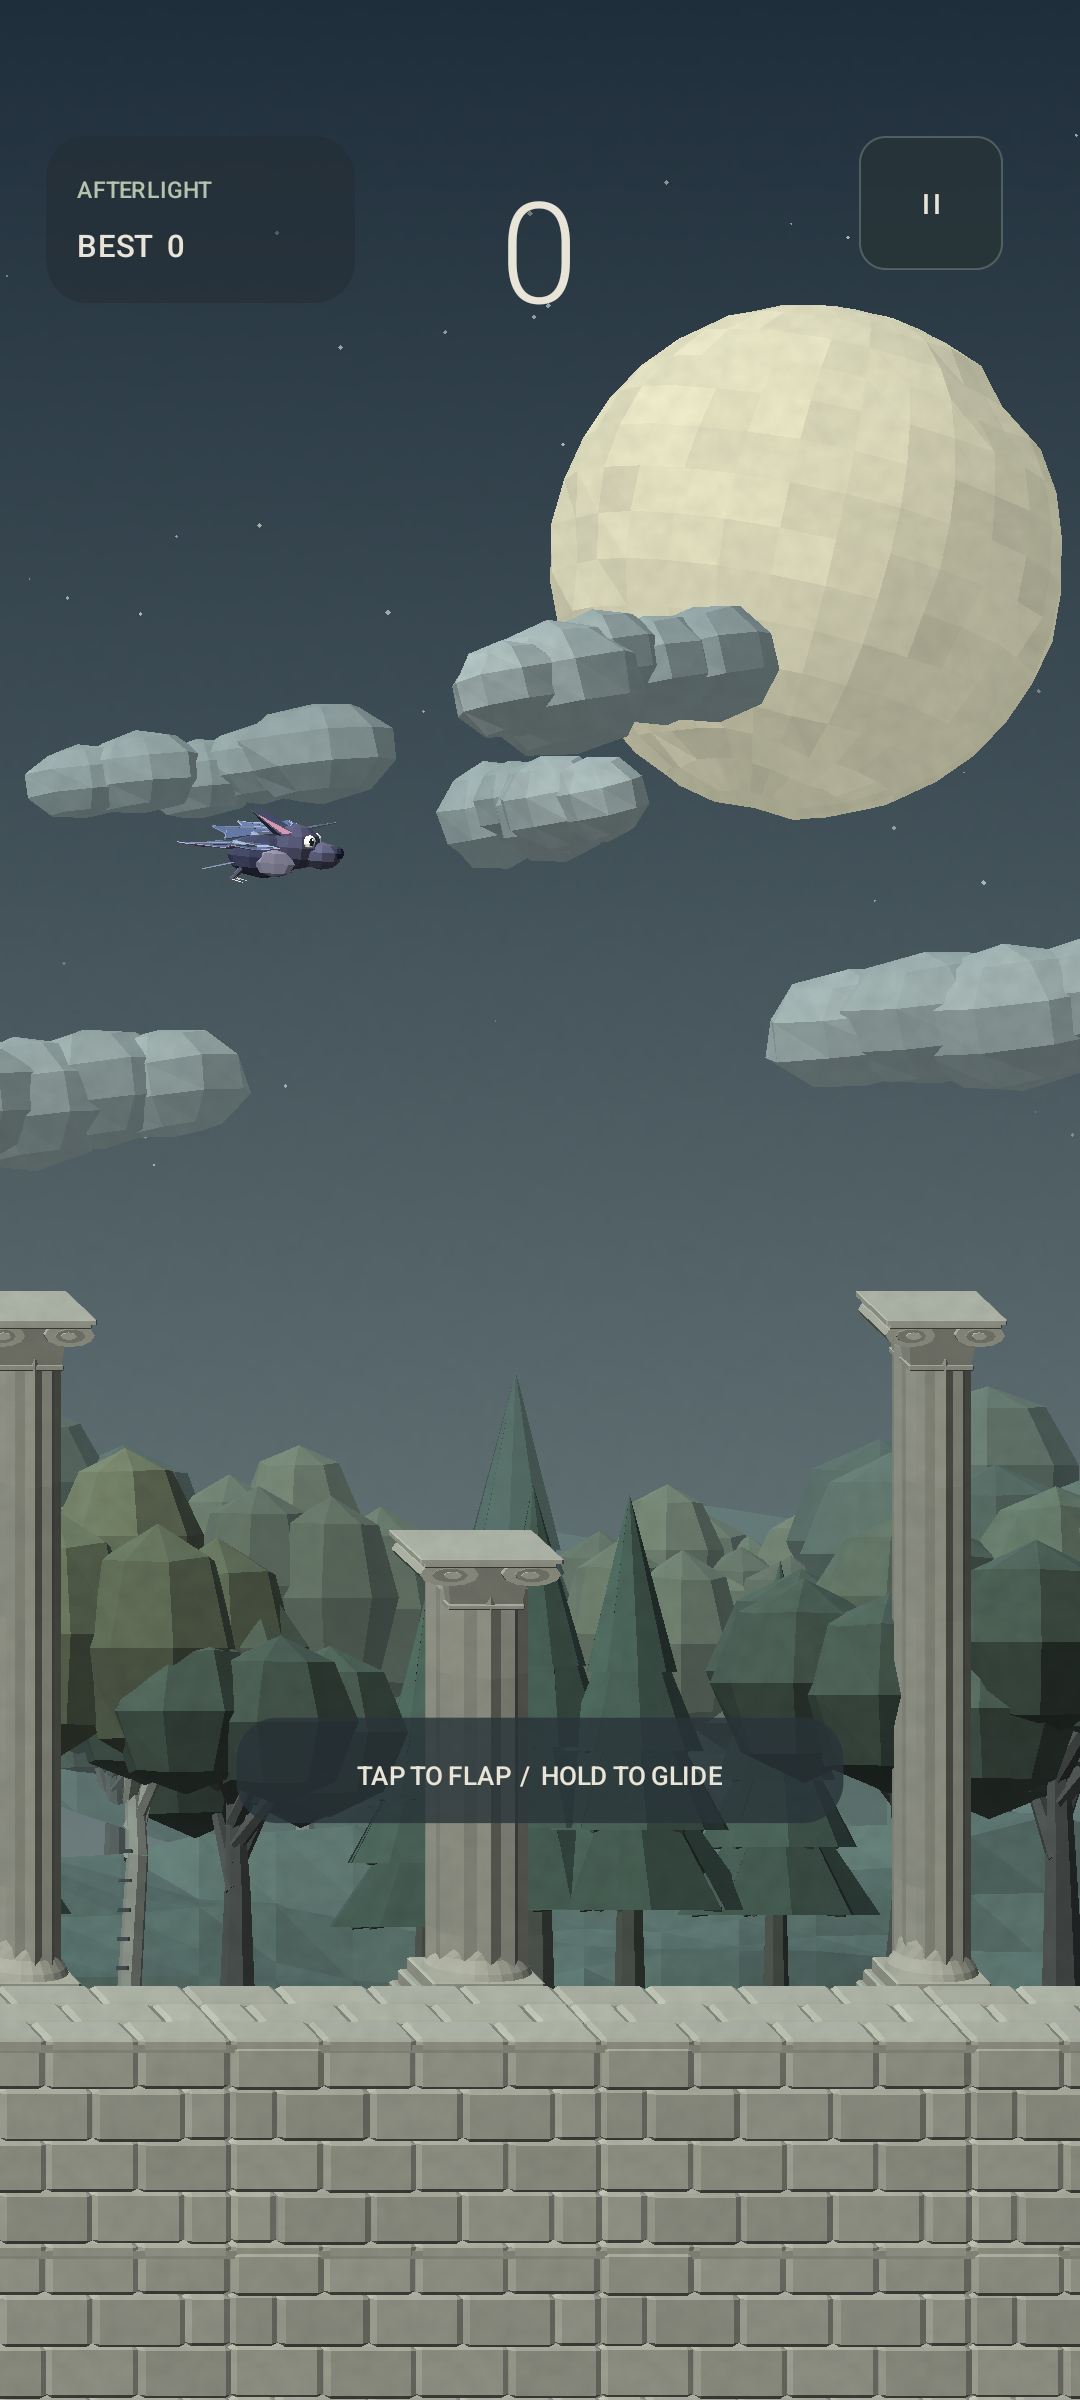
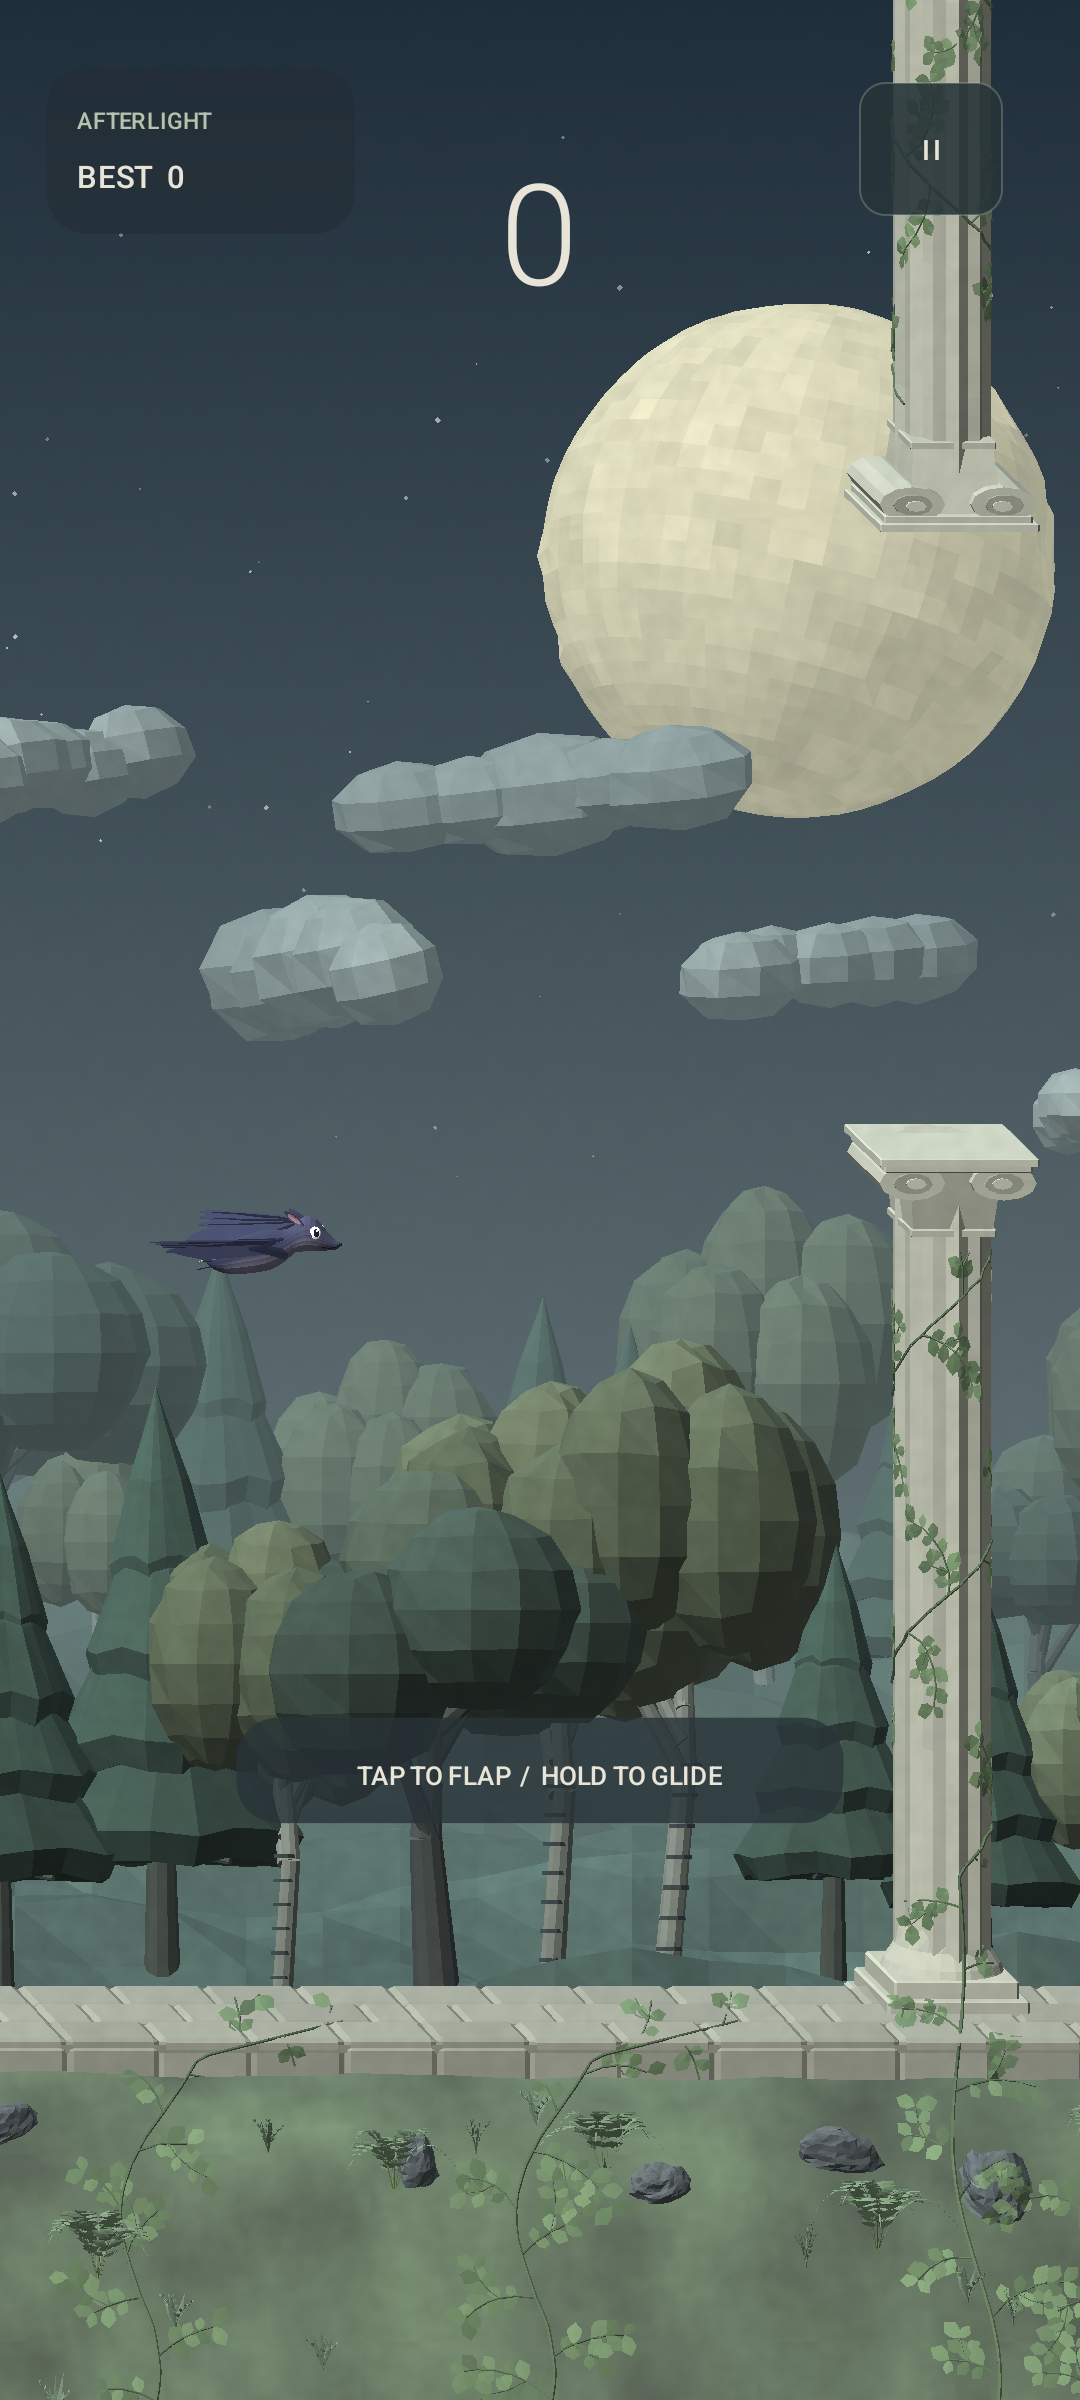
Refresh TapBat visuals, gameplay copy, and sharing assets

diff --git a/marketing/social-card.html b/marketing/social-card.html
@@ -1,0 +1,31 @@
+<!doctype html>
+<html lang="en">
+<head>
+  <meta charset="utf-8">
+  <title>TapBat social card source</title>
+  <style>
+    @font-face { font-family: DM Sans; src: url('../public/assets/dm-sans-latin.woff2'); font-weight: 100 1000; }
+    * { box-sizing: border-box; }
+    html, body { margin: 0; width: 1200px; height: 630px; overflow: hidden; }
+    body { font-family: DM Sans, Arial, sans-serif; color: #f4f2e8; background: #101c2a; }
+    main { position: relative; width: 1200px; height: 630px; padding: 58px 72px; background: radial-gradient(ellipse at 87% 40%, #344849 0%, #182936 30%, #101c2a 63%); }
+    .brand { display: flex; align-items: center; gap: 16px; font-size: 31px; font-weight: 650; letter-spacing: -1px; }
+    .brand img { width: 49px; height: 49px; }
+    h1 { margin: 44px 0 26px; font-size: 78px; line-height: 1.07; font-weight: 500; letter-spacing: -4px; }
+    h1 em { font-family: Georgia, serif; font-weight: 400; color: #c2cdb0; }
+    p { max-width: 600px; font-size: 23px; line-height: 1.5; color: #b5bfca; margin: 0; }
+    .note { position: absolute; bottom: 57px; left: 72px; display: flex; align-items: center; gap: 18px; font-size: 13px; font-weight: 600; letter-spacing: 2.2px; color: #c2cdb0; }
+    .note::before { content: ''; width: 35px; height: 1px; background: #c2cdb0; }
+    figure { position: absolute; right: 94px; top: 29px; width: 236px; margin: 0; }
+    .capture { width: 236px; height: 524.444px; display: block; border-radius: 15px; border: 1px solid #687b7c; box-shadow: 0 18px 55px #0007; }
+    figcaption { margin-top: 19px; text-align: center; font-size: 11px; letter-spacing: 1.7px; color: #bdc7cc; }
+  </style>
+</head>
+<body><main>
+  <div class="brand"><img src="../public/assets/favicon.svg" alt="">TapBat</div>
+  <h1>Tap to flap.<br><em>Hold to glide.</em></h1>
+  <p>Find your rhythm in moonlit ruins.<br>One more point to beat your best.</p>
+  <div class="note">ANDROID / IN DEVELOPMENT</div>
+  <figure><img class="capture" src="../public/assets/tapbat-gameplay.png" alt="Actual TapBat gameplay with vine-covered columns and sloping terrain."><figcaption>ACTUAL GAME CAPTURE</figcaption></figure>
+</main></body>
+</html>

diff --git a/src/styles.css b/src/styles.css
@@ -17,7 +17,7 @@
   --raised: #182737;
   --ink: #f4f2e8;
   --muted: #b5bfca;
-  --accent: #e8bf7b;
+  --accent: #c2cdb0;
   --line: #344251;
   --shell: 1160px;
 }

diff --git a/README.md b/README.md
@@ -6,7 +6,7 @@ A standalone, three-page website for TapBat, ready for GitHub Pages:
 - **Privacy:** local storage, Android backup, Google ads and consent, optional Play Games rankings, website hosting, and support.
 - **Beta:** join the Google Group, opt into the closed test, then install through Google Play.
 
-The design follows the simple structure of BarTallyWebsite with TapBat’s own moonlit visual direction. It describes the current `feature/low-poly-3d` Android checkout, including tap-to-flap and hold-to-glide controls. It does not modify or depend on either Android repository.
+The design follows the simple structure of BarTallyWebsite with TapBat’s own moonlit visual direction. It describes the current `feature/low-poly-3d` Android checkout: tap to flap, hold for 50% slower descent, and release to tuck the wings. Current scenery includes layered forests, sloping terrain, rocks, ferns, and branching vines that wrap the ruins. It does not modify or depend on either Android repository.
 
 All pages are generated as ordinary HTML and CSS. There is no browser JavaScript, backend, analytics, cookie storage, or signup form. Navigation, policy anchors, and the beta FAQ work without JavaScript. The screenshots, icon, and font are local assets.
 
@@ -66,14 +66,19 @@ Do not change the test link to a public-release claim merely because the website
 - `scripts/check-publish.mjs`: contact and beta URL configuration validation; it does not verify enrollment eligibility.
 - `scripts/serve.mjs`: local preview server.
 - `.github/workflows/website.yml`: GitHub Pages build and deployment.
+- `marketing/en-US/*.txt`: editable title, short and full descriptions, website copy, and a social post. These drafts are separate from the rendered page content; update `src/pages.mjs` when changing the website itself.
+- `marketing/social-card.html`: editable source for the 1200 × 630 social preview, using the bundled font, icon, and gameplay capture.
 
 Image sources from the supplied TapBat repository:
 
-- `public/assets/tapbat-home.png` ← `docs/screenshots/native-ads/home-no-ad.png`.
-- `public/assets/tapbat-gameplay.png` ← `docs/screenshots/glide-retry/glide.png`.
+- `public/assets/tapbat-home.png` ← `docs/screenshots/vine-cache/menu.png`.
+- `public/assets/tapbat-gameplay.png` ← `docs/screenshots/vine-cache/flight.png`.
 - `public/assets/favicon.svg` uses the existing Android `ic_bat.xml` geometry and icon colors.
+- `public/assets/tapbat-social.png` is a browser capture of `marketing/social-card.html`; shared Open Graph and Twitter metadata reference this image.
 
-Screenshots are actual captures and contain no sample ads. The home capture uses the earlier “LET’S FLY” button text. DM Sans is bundled from the supplied BarTallyWebsite dependencies; its license is included at `public/assets/DM-Sans-LICENSE.txt`. No new social-preview image was generated.
[1 lines of base64/hex data omitted]
+
+To reproduce the social preview, open `marketing/social-card.html` in a browser with a 1200 × 630 CSS-pixel viewport and a device scale factor of 1. Wait for the local font and images to load, then save a viewport screenshot to `public/assets/tapbat-social.png`. Keep the output at exactly 1200 × 630 pixels. The card uses the actual gameplay capture and labels the game as in development; it does not advertise a public launch. The ordinary site build copies this checked-in PNG and needs no browser or extra dependencies.
 
 ## Privacy content maintenance
 
@@ -96,3 +101,11 @@ npm run check:publish
 ```
 
 `build` checks all three routes, their internal links, image and font references, and anchor targets. It requires no network access. External tester eligibility remains a Google-side check.
+
+The September 30, 2026 content refresh passed the build and public-configuration
+checks. Browser checks covered Home, Beta, and Privacy at 1440, 390, and 320 CSS
+pixels, including image loading, horizontal overflow, FAQ expansion, and beta/privacy
+navigation. Desktop/mobile captures and the sharing image were visually reviewed.
+The sharing card uses the current game capture and supplies Open Graph and Twitter
+large-image metadata. Asset dimensions and provenance are recorded in
+`marketing/assets.json`; store and social copy remain editable drafts.
